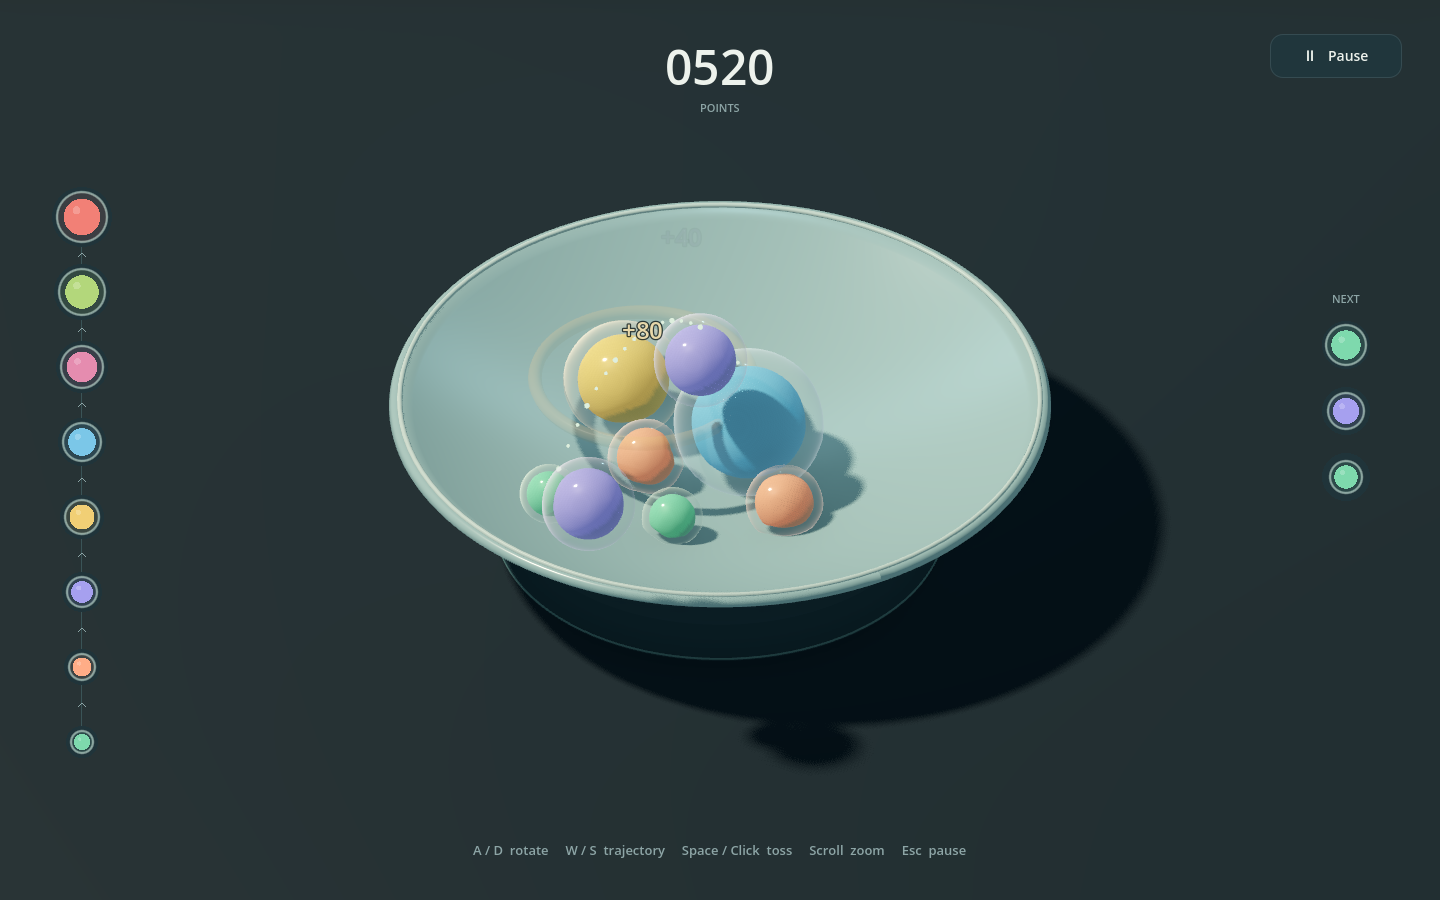
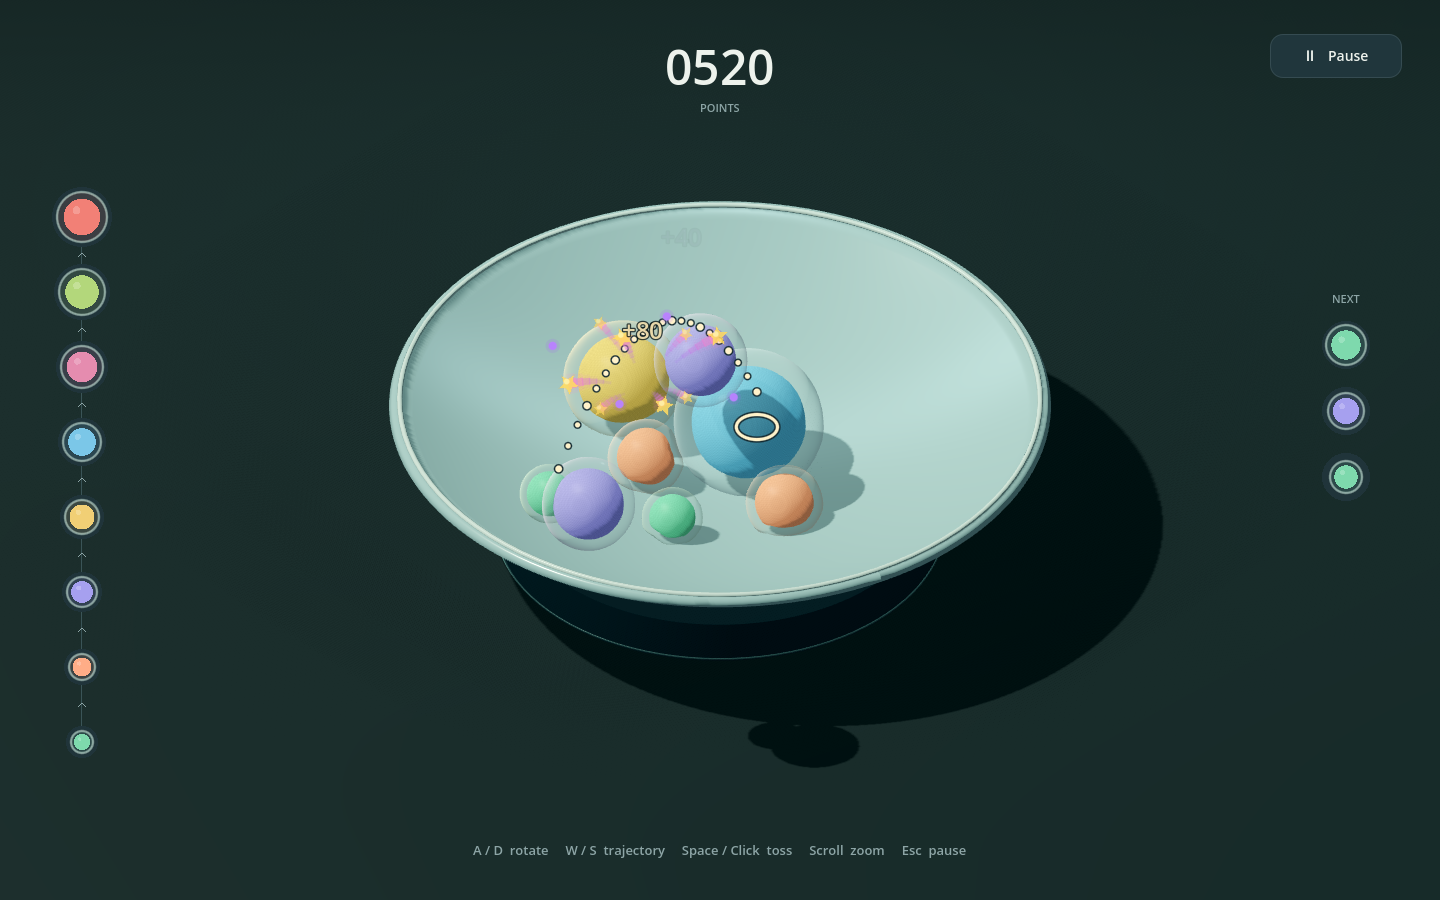
Restore browser lighting and add clear aim markers and merge stars

diff --git a/docs/index.html b/docs/index.html
@@ -111,7 +111,7 @@ body {
 
 		<script src="index.js"></script>
 		<script>
-const GODOT_CONFIG = {"args":[],"canvasResizePolicy":2,"emscriptenPoolSize":8,"ensureCrossOriginIsolationHeaders":true,"executable":"index","experimentalVK":false,"fileSizes":{"index.pck":75604,"index.wasm":39514754},"focusCanvas":true,"gdextensionLibs":[],"godotPoolSize":4};
+const GODOT_CONFIG = {"args":[],"canvasResizePolicy":2,"emscriptenPoolSize":8,"ensureCrossOriginIsolationHeaders":true,"executable":"index","experimentalVK":false,"fileSizes":{"index.pck":78020,"index.wasm":39514754},"focusCanvas":true,"gdextensionLibs":[],"godotPoolSize":4};
 const GODOT_THREADS_ENABLED = false;
 const engine = new Engine(GODOT_CONFIG);
 

diff --git a/README.md b/README.md
@@ -14,7 +14,7 @@ The exported game is checked into `docs/`. GitHub Pages uses **Settings → Page
 
 The **Web** export preset writes `build/web/index.html` and its companion files. Keep all exported files together. For local testing, serve that folder over HTTP (for example, `python -m http.server 8765 --directory build/web`) and open `http://localhost:8765/`; opening the HTML directly from disk will not work. A ready-to-upload local package is `build/SoftMountain-Web.zip`.
 
-Web uses Godot's Compatibility renderer and a single-threaded export, so it runs on static hosting without special cross-origin headers. Desktop uses Forward+; lighting differs slightly. The cell layers and soft-body simulation are shared by both builds. The first visit downloads the WebAssembly engine, and crowded bowls may run slower on weaker devices.
+Web uses Godot's Compatibility renderer and a single-threaded export, so it runs on static hosting without special cross-origin headers. Desktop uses Forward+; the Compatibility lighting is tuned separately to keep the bowl close to the desktop brightness. The cell layers and soft-body simulation are shared by both builds. The first visit downloads the WebAssembly engine, and crowded bowls may run slower on weaker devices.
 
 ## Play
 
@@ -22,7 +22,7 @@ Open `project.godot` in **Godot 4.6+** and press **F5**. The regular Godot build
 
 A local standalone Windows build is available at `build/SoftMountain.exe` after exporting the **Windows Desktop** preset. Builds are excluded from source control. The prototype was developed and tested with Godot 4.6.1; the local executable is exported with the installed Godot 4.7.2 templates.
 
-The main menu offers **Play** and **Options**. Play starts a bowl with three different tiers. Rotate around the bowl with A/D, raise or lower the throw angle with W/S, then click or press Space to toss immediately. Mouse position and hold duration do not affect the throw. The camera views the throw from a slight side angle to keep its arc readable as you orbit. The dotted arc previews the ballistic center path to the bowl plus the queued ball's radius; it does not predict collisions with the pile. Same-tier contact creates the next larger tier and awards points, which float up from the merge and fade away. The eight tiers approximately double in volume at each merge. Tier 8 stays in play and cannot merge further. A ball that escapes the bowl ends the round.
+The main menu offers **Play** and **Options**. Play starts a bowl with three different tiers. Rotate around the bowl with A/D, raise or lower the throw angle with W/S, then click or press Space to toss immediately. Mouse position and hold duration do not affect the throw. The camera views the throw from a slight side angle to keep its arc readable as you orbit. The outlined dotted arc stays readable over light surfaces and overlapping cells, with a matching landing marker. It previews the ballistic center path to the bowl plus the queued ball's radius; it does not predict collisions with the pile. Same-tier contact creates the next larger tier and awards points, which float up from the merge and fade away alongside a burst of yellow stars with pink and purple trails. The eight tiers approximately double in volume at each merge. Tier 8 stays in play and cannot merge further. A ball that escapes the bowl ends the round.
 
 | Input | Action |
 | --- | --- |
